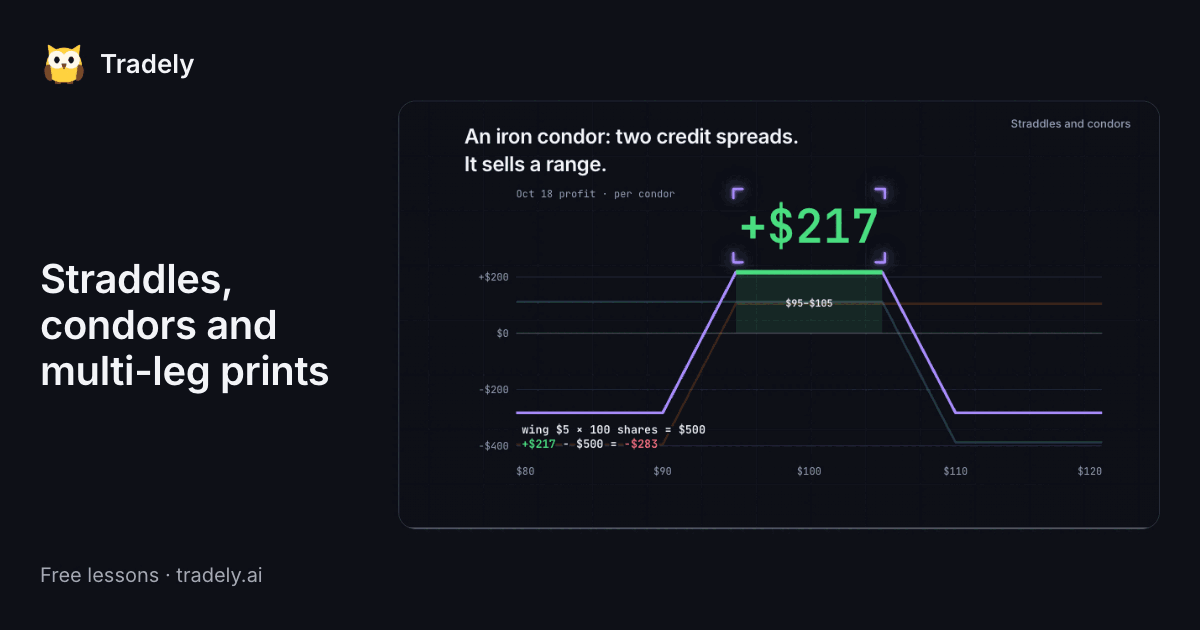
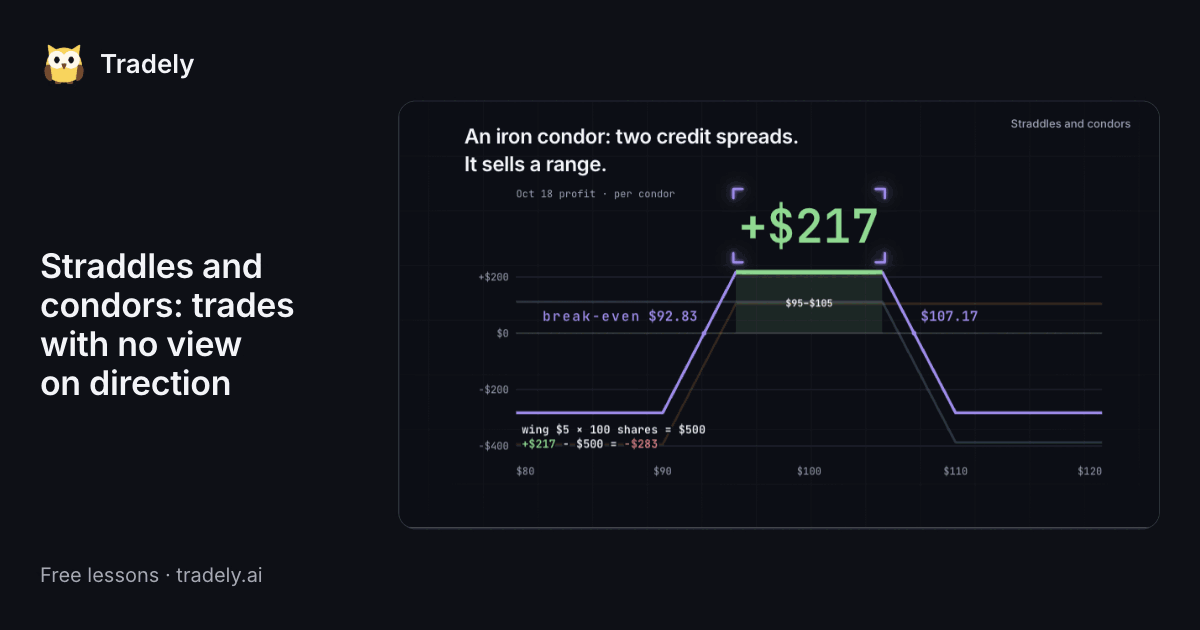
fix(learning): condor chart marks its break-evens
$92.83 and $107.17 stand where the profit line crosses $0, from the short strikes and the credit, entering with the chart's other annotations before the lock. The share card shows them, and now carries the lesson's current title.

From the two jury runs of 2026-11-15 after the first fixes: each change answers a finding that at least three of six juries shared. No existing step of the timeline moved.

diff --git a/apps/web/src/features/learning/lessons/multi-leg-structures-film.tsx b/apps/web/src/features/learning/lessons/multi-leg-structures-film.tsx
@@ -13,8 +13,10 @@ import {
 	toneClass,
 	Word,
 } from "../walkthrough/film-kit";
+import { textWidth } from "../walkthrough/text-measure";
 import {
 	CALL_100,
+	CALL_105,
 	CALL_CREDIT,
 	CLOSE,
 	CLOSE_OWED,
@@ -28,6 +30,7 @@ import {
 	legPrice,
 	MAX_LOSS,
 	NET_CASH,
+	PUT_95,
 	PUT_100,
 	PUT_CREDIT,
 	putSpread,
@@ -54,7 +57,7 @@ import {
  *   open      0–4        "Straddles and condors"
  *   question  4–8.6      no view on direction: is there still a trade?
  *   straddle  8.6–18.2   call and put; a V at $100; break-even $91.60 and $108.40
- *   condor    18.2–30.5  hero: put spread and call spread; together; it sells a range
+ *   condor    18.2–30.5  hero: put spread and call spread; it sells a range, with break-evens
  *   package   30.5–41.3  one order, four legs; net credit; worst case; a close at $108
  *   claim     41.3–45.6  four legs, one trade
  *   next      45.6–47.2  Next: size and exit
@@ -76,6 +79,8 @@ const S_Y = [-1500, 2100] as const;
 const C_Y = [-450, 400] as const;
 const S_TICKS = [-1000, 0, 1000, 2000];
 const C_TICKS = [-400, -200, 0, 200];
+const CONDOR_BREAK_EVEN_LOW = PUT_95.strike - CREDIT;
+const CONDOR_BREAK_EVEN_HIGH = CALL_105.strike + CREDIT;
 
 function layout(width: number, straddleHeadLines = 1) {
 	const frame = filmFrame(width);
@@ -84,6 +89,22 @@ function layout(width: number, straddleHeadLines = 1) {
 	const right = margin + room;
 	const top = H * (narrow ? 0.3 : 0.28);
 	const bottom = H * 0.84;
+	const condorZeroY =
+		bottom - ((0 - C_Y[0]) / (C_Y[1] - C_Y[0])) * (bottom - top);
+	const evenLowX =
+		left +
+		((CONDOR_BREAK_EVEN_LOW - RANGE[0]) / (RANGE[1] - RANGE[0])) *
+			(right - left);
+	const evenHighX =
+		left +
+		((CONDOR_BREAK_EVEN_HIGH - RANGE[0]) / (RANGE[1] - RANGE[0])) *
+			(right - left);
+	const evenType = frame.type.body;
+	const evenPriceLeft =
+		evenLowX - 7 - textWidth(share(CONDOR_BREAK_EVEN_LOW), evenType);
+	const evenTagWidths = ["break-even", "盈亏平衡"].map(
+		(value) => textWidth(value, evenType) + value.length * evenType * 0.12,
+	);
 	const rowY = (i: number) =>
 		H * (narrow ? 0.26 : 0.27) + i * H * (narrow ? 0.085 : 0.09);
 	const rowH = H * (narrow ? 0.07 : 0.075);
@@ -115,6 +136,13 @@ function layout(width: number, straddleHeadLines = 1) {
 		right,
 		top,
 		bottom,
+		condorZeroY,
+		evenLowX,
+		evenHighX,
+		evenLowLabelX: evenLowX - 7,
+		evenHighLabelX: evenHighX + 7,
+		evenTagX: evenPriceLeft - 8 - Math.max(...evenTagWidths),
+		evenLabelY: condorZeroY - 13,
 		x: (spot: number) =>
 			left + ((spot - RANGE[0]) / (RANGE[1] - RANGE[0])) * (right - left),
 		y: (range: readonly [number, number], dollars: number) =>
@@ -181,6 +209,7 @@ const copy = {
 	valueAxis: ["Oct 18 value · 100 shares/leg", "10月18日价值 · 每腿100股"],
 	straddleAxis: ["Oct 18 profit · per straddle", "10月18日盈亏 · 每组跨式"],
 	condorAxis: ["Oct 18 profit · per condor", "10月18日盈亏 · 每组铁鹰"],
+	condorEvenTag: ["break-even", "盈亏平衡"],
 	paid: [
 		`${perContract(-STRADDLE_COST)} paid`,
 		`支付 ${perContract(-STRADDLE_COST)}`,
@@ -493,6 +522,52 @@ function Scene({
 						d={path(C_Y, condor)}
 						className="wt-line-position"
 					/>
+					<g data-f="c-even">
+						{[
+							[
+								"low",
+								CONDOR_BREAK_EVEN_LOW,
+								L.evenLowX,
+								L.evenLowLabelX,
+								"end",
+							],
+							[
+								"high",
+								CONDOR_BREAK_EVEN_HIGH,
+								L.evenHighX,
+								L.evenHighLabelX,
+								"start",
+							],
+						].map(([side, spot, x, labelX, anchor]) => (
+							<g key={side}>
+								<circle
+									cx={x as number}
+									cy={L.condorZeroY}
+									r={2.5}
+									className="wt-film-accent"
+								/>
+								<text
+									x={labelX as number}
+									y={L.evenLabelY}
+									textAnchor={anchor as "start" | "end"}
+									className="wt-film-num wt-halo wt-film-accent"
+									style={{ fontSize: T.body }}
+								>
+									{share(spot as number)}
+								</text>
+							</g>
+						))}
+						{!narrow && (
+							<text
+								x={L.evenTagX}
+								y={L.evenLabelY}
+								className="wt-film-tag wt-film-accent"
+								style={{ fontSize: T.body }}
+							>
+								{t(copy.condorEvenTag)}
+							</text>
+						)}
+					</g>
 					<text
 						data-f="c-put-tag"
 						x={L.right - 6}
@@ -841,7 +916,7 @@ function build(context: FilmContext) {
 	hide(one("c-call-tag"), 22.9, 0.3);
 	draw(p("c-sum"), 22.6);
 	// One result construction: emphasize the plateau, credit and bounded loss.
-	fadeIn([one("c-range"), one("c-keep"), one("c-risk")], 24.3);
+	fadeIn([one("c-range"), one("c-keep"), one("c-risk"), one("c-even")], 24.3);
 	draw(p("c-plateau"), 24.3);
 	// Range settles at 25.0 and stands 2.0 s before the hero lock.
 	d.lock(lockKeep, 26.9, { around: one("c-keep"), pad: 6 });
@@ -903,8 +978,8 @@ function build(context: FilmContext) {
 export const multiLegStructuresFilm: Film = {
 	id: "multi-leg-structures",
 	label: [
-		`Straddles and condors, as a short film: with no view on which way ALFA goes, a long Oct 18 100 straddle bought for ${share(STRADDLE_COST)}, a V with break-evens at ${share(STRADDLE_LOW)} and ${share(STRADDLE_HIGH)}; an iron condor sold for ${share(CREDIT)} as a 95/90 put spread and a 105/110 call spread, keeping ${perContract(CREDIT)} between $95 and $105 and losing at most ${perContract(-MAX_LOSS)}; and that condor entered as one order of four legs, ${LEGS.map((leg) => signedUsd(legCash(leg), 0)).join(", ")} a contract, a net credit of ${signedUsd(NET_CASH, 0)}, which loses ${usd(-CLOSE_RESULT, 0)} if ALFA closes at $${CLOSE}`,
-		`跨式与铁鹰短片：不判断 ALFA 涨跌时，以 ${share(STRADDLE_COST)} 买入 10月18日 100 跨式，一个 V 字，盈亏平衡在 ${share(STRADDLE_LOW)} 和 ${share(STRADDLE_HIGH)}；以 ${share(CREDIT)} 卖出的铁鹰，由 95/90 看跌价差和 105/110 看涨价差组成，$95 到 $105 之间保留 ${perContract(CREDIT)}，最多亏 ${perContract(-MAX_LOSS)}；这组铁鹰作为一张四条腿的订单下达，每张合约分别为 ${LEGS.map((leg) => signedUsd(legCash(leg), 0)).join("、")}，净收入 ${signedUsd(NET_CASH, 0)}，ALFA 收于 $${CLOSE} 时亏 ${usd(-CLOSE_RESULT, 0)}`,
+		`Straddles and condors, as a short film: with no view on which way ALFA goes, a long Oct 18 100 straddle bought for ${share(STRADDLE_COST)}, a V with break-evens at ${share(STRADDLE_LOW)} and ${share(STRADDLE_HIGH)}; an iron condor sold for ${share(CREDIT)} as a 95/90 put spread and a 105/110 call spread, with break-evens at ${share(CONDOR_BREAK_EVEN_LOW)} and ${share(CONDOR_BREAK_EVEN_HIGH)}, keeping ${perContract(CREDIT)} between $95 and $105 and losing at most ${perContract(-MAX_LOSS)}; and that condor entered as one order of four legs, ${LEGS.map((leg) => signedUsd(legCash(leg), 0)).join(", ")} a contract, a net credit of ${signedUsd(NET_CASH, 0)}, which loses ${usd(-CLOSE_RESULT, 0)} if ALFA closes at $${CLOSE}`,
+		`跨式与铁鹰短片：不判断 ALFA 涨跌时，以 ${share(STRADDLE_COST)} 买入 10月18日 100 跨式，一个 V 字，盈亏平衡在 ${share(STRADDLE_LOW)} 和 ${share(STRADDLE_HIGH)}；以 ${share(CREDIT)} 卖出的铁鹰，由 95/90 看跌价差和 105/110 看涨价差组成，盈亏平衡点为 ${share(CONDOR_BREAK_EVEN_LOW)} 和 ${share(CONDOR_BREAK_EVEN_HIGH)}，$95 到 $105 之间保留 ${perContract(CREDIT)}，最多亏 ${perContract(-MAX_LOSS)}；这组铁鹰作为一张四条腿的订单下达，每张合约分别为 ${LEGS.map((leg) => signedUsd(legCash(leg), 0)).join("、")}，净收入 ${signedUsd(NET_CASH, 0)}，ALFA 收于 $${CLOSE} 时亏 ${usd(-CLOSE_RESULT, 0)}`,
 	],
 	stage: "dark",
 	shots: [
